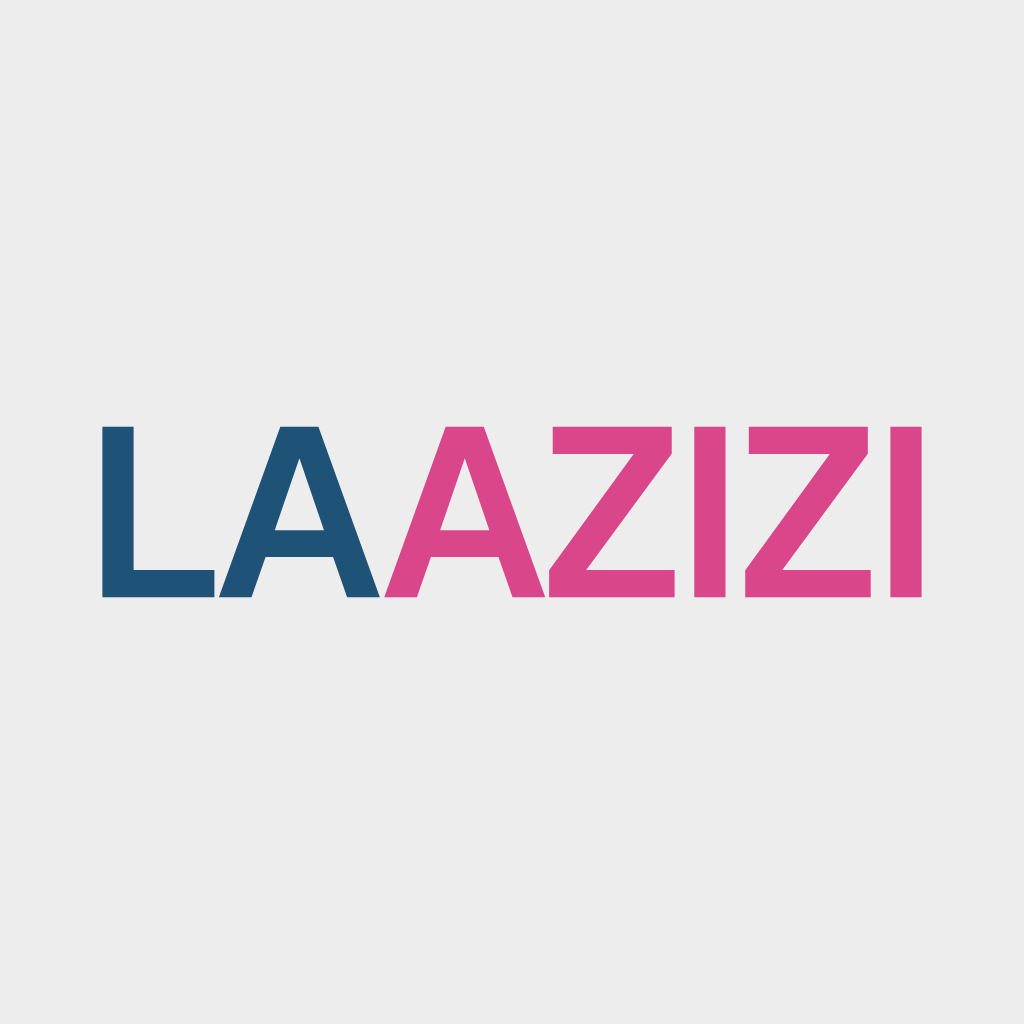
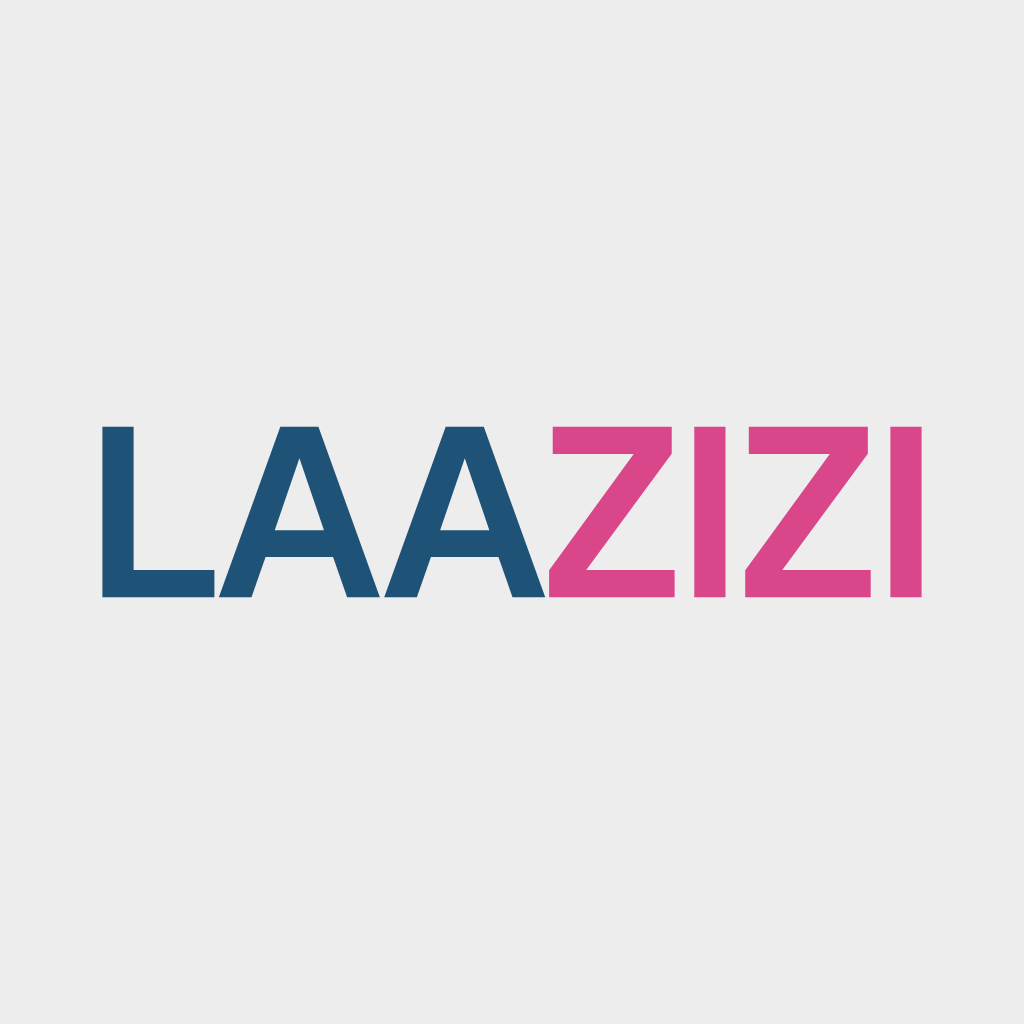
Wordmark: LAA in blue, ZIZI in pink
Claude-Session: https://claude.ai/code/session_018FwfST27irxVZgPYK1BuKW

Changed region(s): [[0.375, 0.4062, 0.5312, 0.5938]]

diff --git a/src/components/Logo.tsx b/src/components/Logo.tsx
@@ -1,9 +1,9 @@
-/** Wordmark: name in capitals, first two letters blue, the rest pink (LA + AZIZI). */
+/** Wordmark: name in capitals, first three letters blue, the rest pink (LAA + ZIZI). */
 export function Logo({ name, className = "" }: { name: string; className?: string }) {
   return (
     <span className={`font-semibold uppercase leading-none tracking-[-0.02em] ${className}`} aria-label={name}>
-      <span aria-hidden className="text-azure-600">{name.slice(0, 2)}</span>
-      <span aria-hidden className="text-pink">{name.slice(2)}</span>
+      <span aria-hidden className="text-azure-600">{name.slice(0, 3)}</span>
+      <span aria-hidden className="text-pink">{name.slice(3)}</span>
     </span>
   );
 }

diff --git a/src/components/reel/scenes.ts b/src/components/reel/scenes.ts
@@ -399,7 +399,7 @@ function scenes(cfg: ReelConfig): Scene[] {
       const [sx, sy] = shake(lt, 0.05, 22 * u);
       c.save(); c.translate(sx, sy + (1 - p) * 80 * u); c.globalAlpha = p;
       font(c, size, 700);
-      const head = name.slice(0, 2), tail = name.slice(2);
+      const head = name.slice(0, 3), tail = name.slice(3);
       const hw = c.measureText(head).width;
       const y = tall ? H * 0.42 : H * 0.45;
       text(c, head, x, y, size, { weight: 700, color: BLUE });

diff --git a/scripts/brand.py b/scripts/brand.py
@@ -1,5 +1,5 @@
 """Builds the LAAZIZI logo set from the Geist font: the one-line wordmark exactly as in the site header
-(Geist SemiBold, capitals, -0.02em tracking, LA blue / AZIZI pink), as vector outlines.
+(Geist SemiBold, capitals, -0.02em tracking, LAA blue / ZIZI pink), as vector outlines.
 
 Run:  python3 scripts/brand.py      (needs: pip install fonttools brotli uharfbuzz)
 Then: node scripts/brand-png.mjs    (renders the PNG sizes with the bundled Chromium)
@@ -15,7 +15,7 @@ import uharfbuzz as hb
 ROOT = os.path.dirname(os.path.dirname(os.path.abspath(__file__)))
 WOFF2 = os.path.join(ROOT, "node_modules/@fontsource-variable/geist/files/geist-latin-wght-normal.woff2")
 OUT = os.path.join(ROOT, "public/brand")
-NAME, SPLIT = "LAAZIZI", 2
+NAME, SPLIT = "LAAZIZI", 3
 BLUE, PINK = "#1f5277", "#d9468a"           # header colours (on light)
 BLUE_DARK, PINK_DARK = "#4f9cf0", "#f06fae"  # same hues lifted for dark backgrounds
 INK, PAPER, WHITE = "#1c1f24", "#ededed", "#ffffff"
